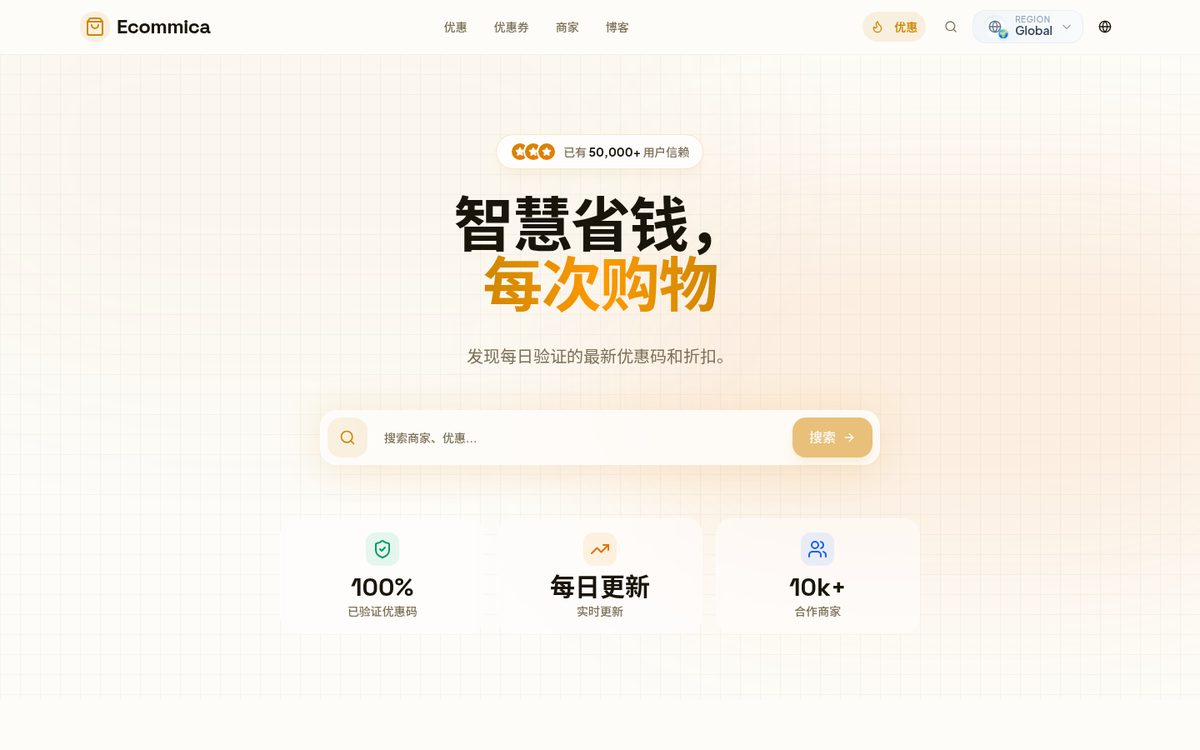
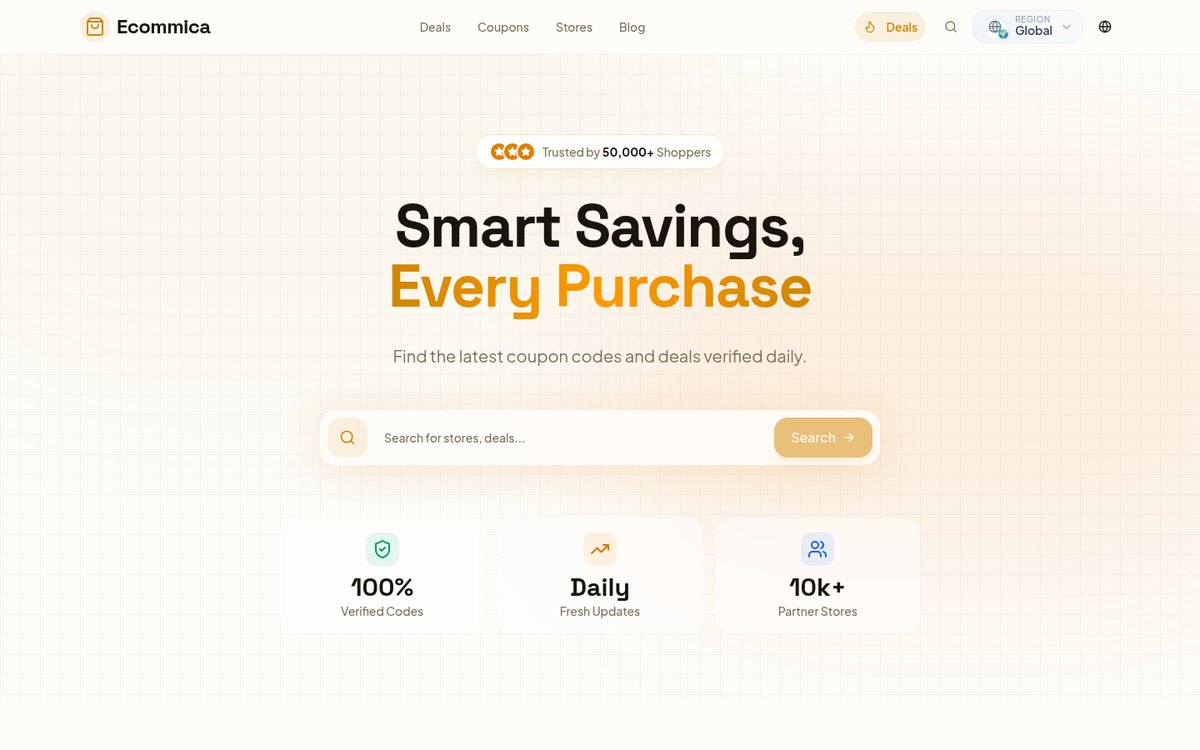
work: Ecommica 首页卡片改用英文版截图与链接

diff --git a/index.html b/index.html
@@ -208,7 +208,7 @@
           </article>
 
           <article class="work reveal" id="work-ecommica">
-            <a class="work-shot" href="https://deals.ecommica.com/" target="_blank" rel="noopener" aria-label="打开 Ecommica 网站">
+            <a class="work-shot" href="https://deals.ecommica.com/en" target="_blank" rel="noopener" aria-label="打开 Ecommica 网站">
               <span class="browser">
                 <span class="browser-bar" aria-hidden="true"><span class="browser-dots"><i></i><i></i><i></i></span><span class="browser-url mono"><i class="fa-solid fa-lock"></i> deals.ecommica.com</span><span class="browser-go">↗</span></span>
                 <img src="./assets/deals.jpg" width="1200" height="750" loading="lazy" decoding="async" alt="Ecommica deals.ecommica.com 首页截图">
@@ -224,7 +224,7 @@
               </dl>
               <div class="work-links">
                 <a class="btn btn-primary btn-sm" href="/work/ecommica/">查看案例 <span class="arrow" aria-hidden="true">→</span></a>
-                <a class="btn btn-ghost btn-sm" href="https://deals.ecommica.com/" target="_blank" rel="noopener">访问线上站点 <span class="arrow" aria-hidden="true">↗</span></a>
+                <a class="btn btn-ghost btn-sm" href="https://deals.ecommica.com/en" target="_blank" rel="noopener">访问线上站点 <span class="arrow" aria-hidden="true">↗</span></a>
                 <a class="btn btn-ghost btn-sm" href="https://deals.ecommica.com/en" target="_blank" rel="noopener"><i class="fa-solid fa-language" aria-hidden="true"></i> English 版</a>
               </div>
             </div>
